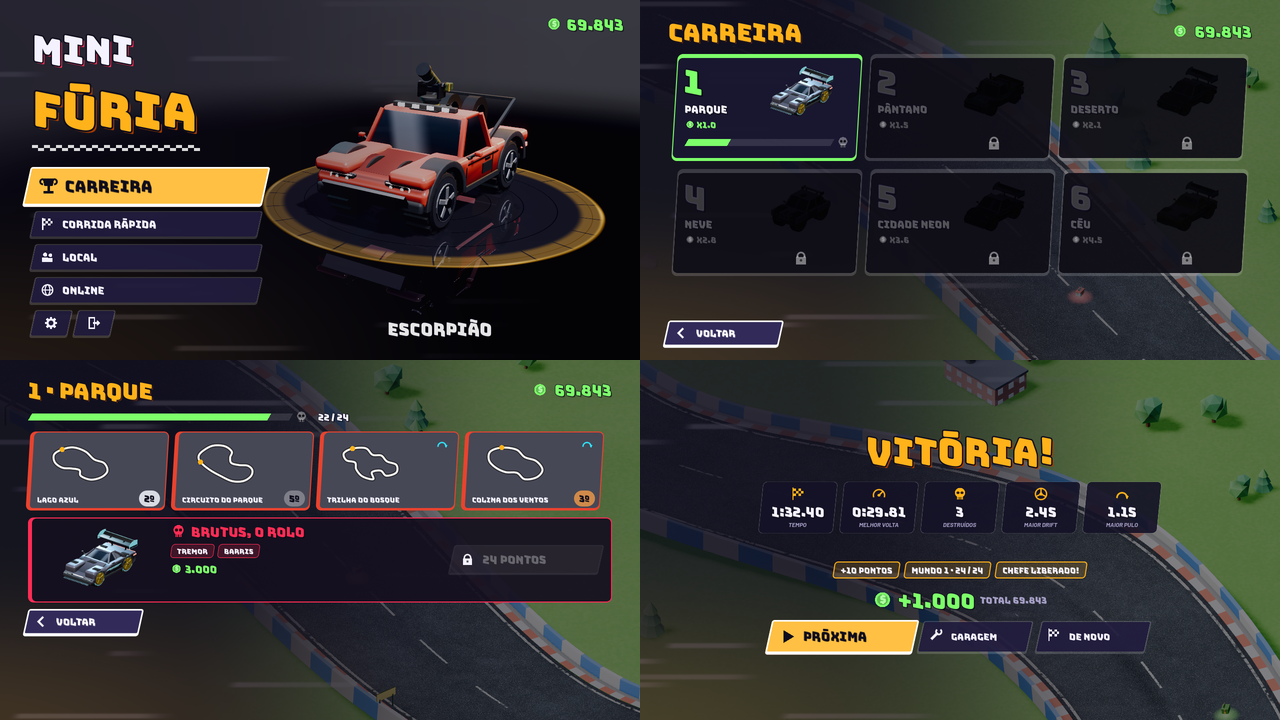
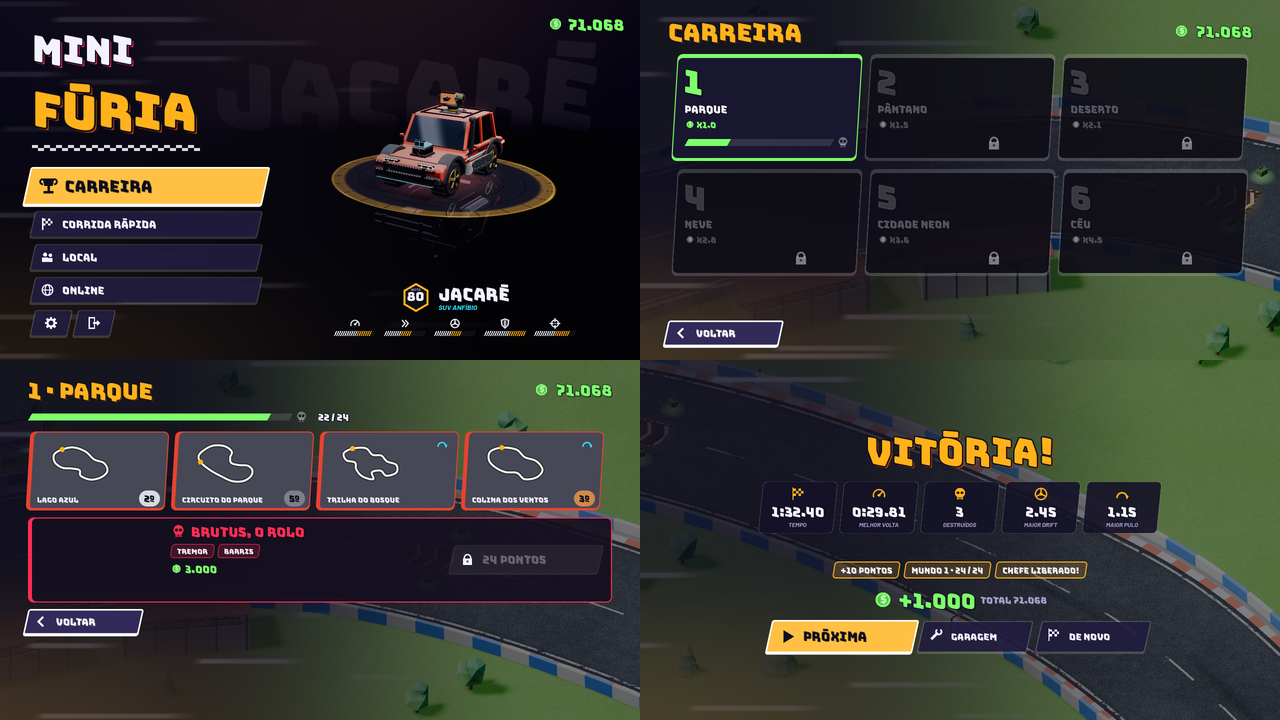
Mini Fúria: carro menor na vitrine, sem garrafas de nitro e painéis reorganizados
- Vitrine: carro menor na plataforma (garagem e menu) e zoom mais suave ao focar uma peça; o estúdio
  não tem mais linha de horizonte (o piso some ao longe e o nome gigante do carro aparece ao fundo).
- Garagem: a pintura foi para o painel da esquerda (sempre à mão), o detalhe da peça escolhida com o
  botão de compra fica no centro, embaixo do carro, e os cartões de peças ficaram maiores; os 10 carros
  cabem na vitrine de baixo sem rolar.
- Menu: embaixo do carro aparecem a nota, o nome, a classe e os 5 medidores em miniatura.
- Kit: a mobilidade (nitro) não põe mais garrafas no carro; o cartão mostra só o ícone.

Claude-Session: https://claude.ai/code/session_01BpYjz3PdmkrUrqbqg8cB45

diff --git a/minifuria/blender/build_assets.py b/minifuria/blender/build_assets.py
@@ -1807,20 +1807,6 @@ def blower(name, big):
 blower("kit_blower", False)
 blower("kit_blower3", True)
 
-# MOBILIDADE: garrafa de nitro (deitada ao longo do carro) com válvula, rótulo e cintas
-nos = [cyl("kn_b", 0.1, 0.42, (0, 0, 0.1), M["nos"], verts=20, axis="Y"),
-       ico("kn_f", 0.1, (0, -0.21, 0.1), M["nos"], sub=2, scale=(1, 0.55, 1)),
-       ico("kn_r", 0.1, (0, 0.21, 0.1), M["nos"], sub=2, scale=(1, 0.55, 1)),
-       cyl("kn_l", 0.102, 0.14, (0, 0.02, 0.1), M["white"], verts=20, axis="Y"),
-       cyl("kn_n", 0.03, 0.06, (0, -0.27, 0.1), M["chrome"], verts=10, axis="Y"),
-       cyl("kn_v", 0.045, 0.03, (0, -0.31, 0.1), M["red"], verts=12, axis="Y"),
-       cyl("kn_g", 0.028, 0.02, (0, -0.12, 0.2), M["white"], verts=12, axis="Z"),
-       cyl("kn_gr", 0.032, 0.02, (0, -0.12, 0.195), M["chrome"], verts=12, axis="Z")]
-for i, y in enumerate((-0.11, 0.15)):
-    nos.append(cyl(f"kn_s{i}", 0.108, 0.03, (0, y, 0.1), M["trim"], verts=20, axis="Y"))
-    nos.append(box(f"kn_ft{i}", (0.24, 0.05, 0.02), (0, y, 0.01), M["trim"]))
-kprop("kit_nos", nos)
-
 # BLINDAGEM: chapa xadrez chanfrada com rebites (nv2+, nas portas)
 arm = [prism("ka_b", [(-0.64, -0.12), (0.64, -0.12), (0.68, -0.06), (0.68, 0.1), (0.62, 0.135), (-0.62, 0.135), (-0.68, 0.1), (-0.68, -0.06)],
              0.025, 0.025, 0, 0, M["deck"], bevel=0.008)]

diff --git a/README.md b/README.md
@@ -325,9 +325,10 @@ A garagem virou uma **vitrine de miniaturas** (`scripts/showroom.gd` + `scripts/
 - O carro é o `Car` do jogo (mesmo kit, armas e pneus da corrida). Arraste para girar; ao escolher uma peça, a plataforma gira e a câmera aproxima dela (motor, blindagem, pneus, nitro, item de chão, arma).
 - **Vitrine de carros** embaixo: os 10 carros em miniatura renderizada do modelo 3D (cabine de fotos que tira uma miniatura por quadro, em cache), com preço, cadeado do mundo ou "SEU". Escolher um carro da loja mostra ele na plataforma; o botão principal vira **COMPRAR $** (ou **MUNDO N** se ainda estiver trancado).
 - **Medidores por carro** (VELOCIDADE, ACELERAÇÃO, CONTROLE, BLINDAGEM, ATAQUE) em segmentos: branco = base do carro, âmbar = upgrades comprados, **verde piscando = o que o próximo nível dá**; vendo outro carro, uma marca ciano mostra onde o seu carro atual está. A **NOTA** geral (0–100) sobe com o preço do carro. As notas usam a mesma conta da física (`Car.ratings`).
-- **Cartões de peças**: a miniatura mostra a peça do **próximo nível** (tomada de ar → compressor → compressor grande; quebra-mato → chapas; pneu esportivo → slick; garrafa de nitro; lançador; tambor), níveis em "pips" e o preço. Primeiro toque mostra a prévia no carro e nos medidores; o segundo (ou o botão verde) compra.
-- **ARSENAL**: miniatura da torre da arma com barra de poder, cargas por volta do item de chão e da mobilidade, e os 3 especiais com ícone. **PINTURA**: 12 cores grandes.
-- **Menu principal**: logo e botões com ícone à esquerda; à direita, o seu carro girando na vitrine, com o dinheiro no canto. Saíram a linha de slogan e o parágrafo de controles.
+- **Cartões de peças**: a miniatura mostra a peça do **próximo nível** (tomada de ar → compressor → compressor grande; quebra-mato → chapas; pneu esportivo → slick; lançador; tambor), níveis em "pips" e o preço; a mobilidade (nitro, salto...) não tem peça no carro e aparece só como ícone. Primeiro toque mostra a prévia no carro e nos medidores; o segundo (ou o botão verde no centro, embaixo do carro) compra.
+- **ARSENAL**: miniatura da torre da arma com barra de poder, cargas por volta do item de chão e da mobilidade, e os 3 especiais com ícone. A **pintura** (12 cores) fica sempre à mão no painel da esquerda, embaixo dos medidores.
+- **Carro menor na plataforma** (os modelos são simples: de perto ficavam feios). O espaço que sobrou no centro recebe o detalhe da peça escolhida (nome, efeito e o botão de compra), e o estúdio não tem mais linha de horizonte: o piso some ao longe e o nome gigante do carro aparece ao fundo.
+- **Menu principal**: logo e botões com ícone à esquerda; à direita, o seu carro (pequeno) girando na vitrine e, embaixo dele, a nota, o nome, a classe e os 5 medidores em miniatura; o dinheiro fica no canto. Saíram a linha de slogan e o parágrafo de controles.
 - **Carreira**: cada mundo é um cartão com número, nome, multiplicador, a **miniatura do chefe** (silhueta enquanto trancado) e a barra de pontos com o chefe na ponta. **Mundo**: cartões das pistas com o **traçado** desenhado, ícones dos elementos (loop, salto, espiral, saca-rolhas) e a melhor colocação; o chefe aparece em miniatura com os ataques em selos curtos e o prêmio.
 - **Corrida rápida**: grade de pistas com traçado, ícones e medalha (sem texto de tema/elementos). **Resultado**: blocos com ícone (tempo, melhor volta, destruídos, drift, pulo), selos da carreira e o prêmio. **Pausa** e **multijogador local** com ícones e miniaturas dos carros; o lobby online mostra a miniatura do carro escolhido.
 - Ícones vetoriais próprios (`scripts/icons.gd`, sem imagens) e `UI.icon_button` para os botões com ícone.
@@ -336,7 +337,7 @@ A garagem virou uma **vitrine de miniaturas** (`scripts/showroom.gd` + `scripts/
 
 As peças de upgrade eram caixas e cilindros do Godot; agora são **peças modeladas no Blender** (`kit_*` no `minicars.glb`) e encaixadas na lataria por raios contra a malha de cada carro (capô, tampa traseira, laterais, para-choques), sem flutuar:
 - **Aerodinâmica pelo nível do kit**: lâmina dianteira de fibra com filete colorido (nv1), riscos de velocidade nas laterais (nv1), asa com perfil de verdade e pescoço de cisne (nv2), asa de dois elementos com placas grandes, gurney e tirantes (nv3); canards nos cantos (nv2+); buggy e picapes ganham para-barros; nv3 tem neon embaixo com luz no chão.
-- **Uma peça por upgrade, que muda a cada nível**: MOTOR tomada de ar → compressor (blower) com polia e correia → compressor grande com chapéu na cor do kit; BLINDAGEM quebra-mato → chapas xadrez rebitadas nas portas → quebra-mato atrás; MOBILIDADE 1 a 3 garrafas de nitro com válvula e cintas (na tampa traseira, na caçamba ou deitadas no teto, conforme o carro); ITEM DE CHÃO lançador traseiro com luzes; MUNIÇÃO tambor (dois no nv3); DANO colar de dissipação com aletas de cobre; CADÊNCIA respiros com venezianas.
+- **Uma peça por upgrade, que muda a cada nível**: MOTOR tomada de ar → compressor (blower) com polia e correia → compressor grande com chapéu na cor do kit; BLINDAGEM quebra-mato → chapas xadrez rebitadas nas portas → quebra-mato atrás; ITEM DE CHÃO lançador traseiro com luzes; MUNIÇÃO tambor (dois no nv3); DANO colar de dissipação com aletas de cobre; CADÊNCIA respiros com venezianas. A MOBILIDADE (cargas de nitro, salto etc.) não põe peça no carro.
 - O Trovão perdeu o compressor e o quebra-mato de fábrica (agora vêm dos upgrades, como nos outros carros).
 - **Props refeitos**: arquibancada com degraus, cadeiras coloridas, torcida (alguns com o braço levantado), paredes, cobertura com treliça e faixas de patrocínio; outdoor com pernas em I, travessas, passarela, refletores e arte de chevrons; bandeira quadriculada ondulando; muro de pneus com faixas vermelhas/brancas e cinta; barril com nervuras e etiqueta de perigo; itens da pista (caixa de munição com balas, maleta de reparo com chave, garrafa de nitro).
 - `tools/part_shot.gd` fotografa uma peça solta e `tools/kit_bench.gd` mede o encaixe do kit (~25 ms na primeira vez de cada carro, <1 ms depois).
